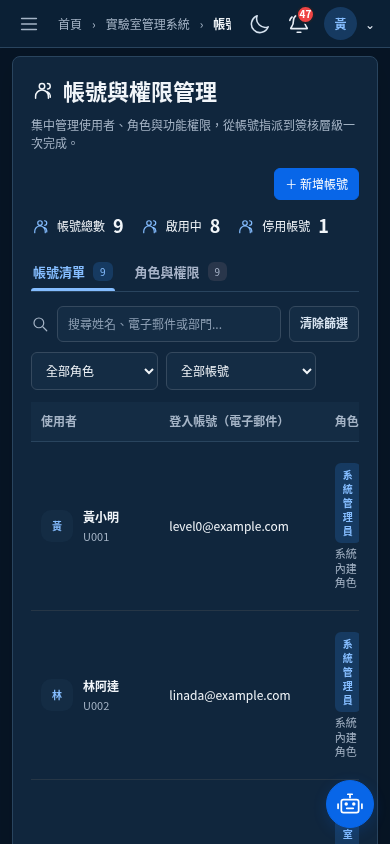
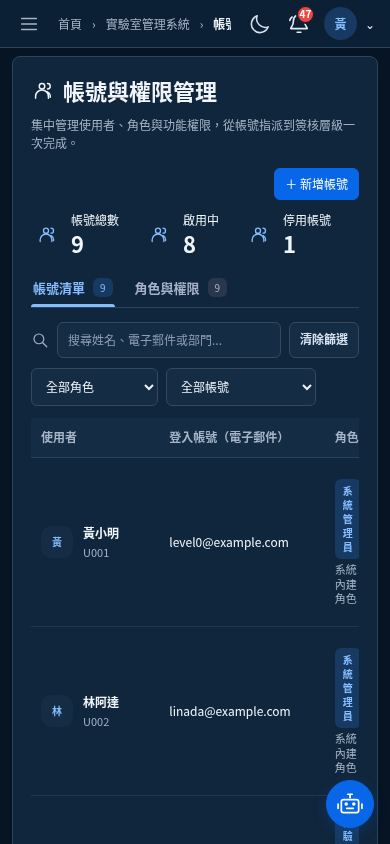
Restore original account summary scale without cards

diff --git a/src/AccountRolePolish.css b/src/AccountRolePolish.css
@@ -41,11 +41,10 @@ html body #root .lms-enterprise .schedule-edit-modal .schedule-arrangement label
 html body #root .lms-enterprise .schedule-edit-modal .schedule-arrangement :is(input,select){height:36px;min-height:36px;padding:6px 10px;font-size:12px}
 @media(max-width:650px){html body #root .lms-enterprise .panel.account-management .account-summary{gap:8px}html body #root .lms-enterprise .panel.account-management .role-workspace>header{flex-wrap:wrap}html body #root .lms-enterprise .schedule-edit-modal .schedule-arrangement-device{padding-right:0}html body #root .lms-enterprise .schedule-edit-modal .schedule-request-details>summary{flex-wrap:wrap;gap:4px;font-size:12px;line-height:1.4}html body #root .lms-enterprise .schedule-edit-modal .schedule-request-details>summary small{margin-left:0;width:100%}}
 
-/* Account totals are compact inline information, without card containers. */
+/* Restore the original summary scale, without cards or stretched columns. */
 html body #root .lms-enterprise .panel.account-management .account-summary{display:flex;justify-content:flex-start;align-items:center;flex-wrap:wrap;gap:12px 24px;margin:0}
-html body #root .lms-enterprise .panel.account-management .account-summary-card{display:inline-flex;align-items:center;flex:none;gap:8px;width:auto;min-width:0;min-height:28px;padding:0;border:0!important;border-radius:0;background:transparent!important;box-shadow:none;text-align:left}
-html body #root .lms-enterprise .panel.account-management .account-summary-card>.workspace-summary-icon{width:18px;height:18px;min-width:18px;padding:0;border:0;border-radius:0;background:transparent!important;color:var(--tab-accent)}
-html body #root .lms-enterprise .panel.account-management .account-summary-card>.workspace-summary-icon svg{width:18px;height:18px}
-html body #root .lms-enterprise .panel.account-management .account-summary-card>span{margin:0;font-size:12px;line-height:1.5;color:var(--enterprise-text)}
-html body #root .lms-enterprise .panel.account-management .account-summary-card>strong{margin:0;font-size:18px;line-height:1.5;color:var(--enterprise-text)}
-@media(max-width:650px){html body #root .lms-enterprise .panel.account-management .account-summary{gap:8px 16px}}
+html body #root .lms-enterprise .panel.account-management .account-summary-card{display:grid;grid-template-columns:30px max-content;grid-template-rows:auto auto;align-items:center;justify-content:start;flex:none;column-gap:10px;row-gap:2px;width:max-content;min-width:0;min-height:44px;padding:0;border:0!important;border-radius:0;background:transparent!important;box-shadow:none;text-align:left}
+html body #root .lms-enterprise .panel.account-management .account-summary-card>.workspace-summary-icon{grid-column:1;grid-row:1/span 2;width:30px;height:30px;padding:0;border:0;border-radius:0;background:transparent!important;color:var(--tab-accent)}
+html body #root .lms-enterprise .panel.account-management .account-summary-card>.workspace-summary-icon svg{width:20px;height:20px}
+html body #root .lms-enterprise .panel.account-management .account-summary-card>span{grid-column:2;grid-row:1;margin:0;font-size:12px;line-height:1.35;color:var(--enterprise-text)}
+html body #root .lms-enterprise .panel.account-management .account-summary-card>strong{grid-column:2;grid-row:2;margin:0;font-size:22px;line-height:1.1;color:var(--enterprise-text)}

diff --git a/docs/account-summary-inline/README.md b/docs/account-summary-inline/README.md
@@ -1,6 +1,6 @@
 # 帳號統計資訊列
 
-帳號總數、啟用中、停用帳號改為靠左的精簡資訊列，保留原圖示、標籤、即時計數與功能；移除卡片外框、底色、陰影與圖示底框。小螢幕可自然換行，不影響帳號／角色操作。
+帳號總數、啟用中、停用帳號恢復原有尺寸：圖示20px、標籤12px、數字22px；圖示靠左，文字與數字上下排列。保留無框透明樣式，三組向左排列、固定水平間距24px，小螢幕可自然換行。即時計數與帳號／角色功能不變。
 
 Lint、Production Build、四項1366／390深淺色既有帳號角色E2E通過。下列為實際本機瀏覽器截圖（Demo資料）。
 
